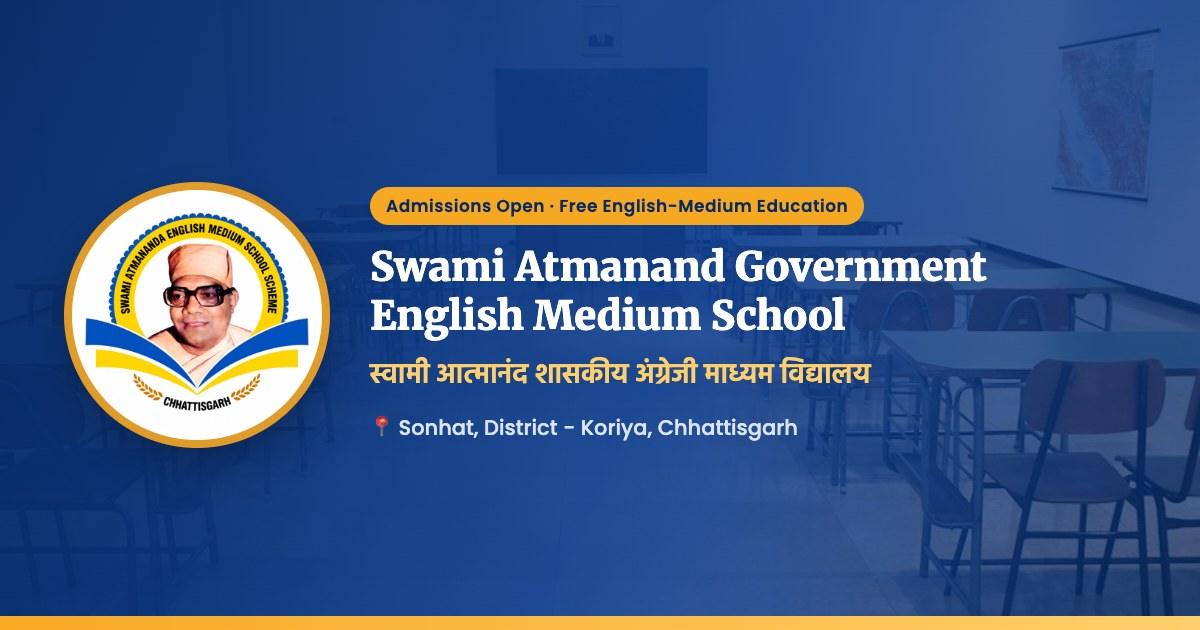
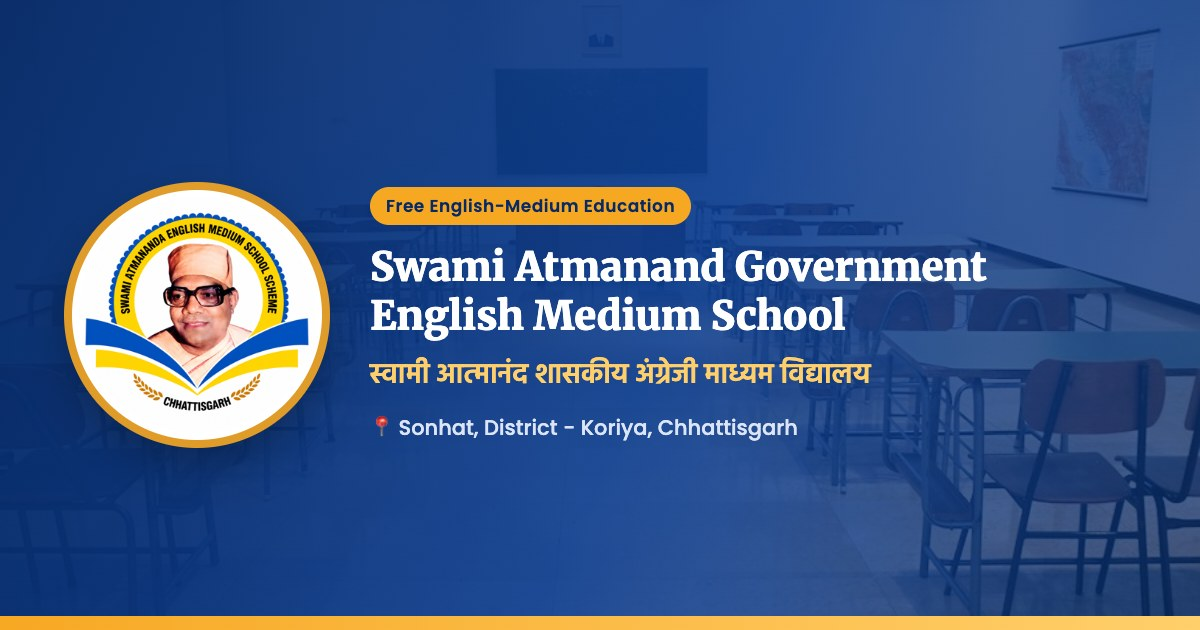
Link preview badge: 'Free English-Medium Education' only

Changed region(s): [[0.3083, 0.2714, 0.74, 0.3619]]

diff --git a/index.html b/index.html
@@ -14,14 +14,14 @@
   <meta property="og:title" content="SAGES Sonhat – Swami Atmanand Govt. English Medium School">
   <meta property="og:description" content="Free, quality English-medium education from Class 1 to 12 in Sonhat, Koriya (Chhattisgarh). Admissions, faculty, notices, events and gallery.">
   <meta property="og:url" content="https://sagessonhatkorea.vercel.app/">
-  <meta property="og:image" content="https://sagessonhatkorea.vercel.app/images/og-image.jpg?v=3">
+  <meta property="og:image" content="https://sagessonhatkorea.vercel.app/images/og-image.jpg?v=4">
   <meta property="og:image:width" content="1200">
   <meta property="og:image:height" content="630">
   <meta property="og:image:alt" content="Swami Atmanand Government English Medium School, Sonhat">
   <meta name="twitter:card" content="summary_large_image">
   <meta name="twitter:title" content="SAGES Sonhat – Swami Atmanand Govt. English Medium School">
   <meta name="twitter:description" content="Free, quality English-medium education from Class 1 to 12 in Sonhat, Koriya (Chhattisgarh). Admissions, faculty, notices, events and gallery.">
-  <meta name="twitter:image" content="https://sagessonhatkorea.vercel.app/images/og-image.jpg?v=3">
+  <meta name="twitter:image" content="https://sagessonhatkorea.vercel.app/images/og-image.jpg?v=4">
   <link rel="preconnect" href="https://fonts.googleapis.com">
   <link href="https://fonts.googleapis.com/css2?family=Merriweather:wght@700&family=Poppins:wght@400;500;600&display=swap" rel="stylesheet">
   <link rel="icon" href="/images/favicon.png">

diff --git a/pages/activities.html b/pages/activities.html
@@ -14,14 +14,14 @@
   <meta property="og:title" content="Co-curricular Activities – Swami Atmanand School, Sonhat">
   <meta property="og:description" content="Sports, cultural and technical events, plus Scout Guide and NSS activities that build confidence and character at SAGES Sonhat.">
   <meta property="og:url" content="https://sagessonhatkorea.vercel.app/pages/activities.html">
-  <meta property="og:image" content="https://sagessonhatkorea.vercel.app/images/og-image.jpg?v=3">
+  <meta property="og:image" content="https://sagessonhatkorea.vercel.app/images/og-image.jpg?v=4">
   <meta property="og:image:width" content="1200">
   <meta property="og:image:height" content="630">
   <meta property="og:image:alt" content="Swami Atmanand Government English Medium School, Sonhat">
   <meta name="twitter:card" content="summary_large_image">
   <meta name="twitter:title" content="Co-curricular Activities – Swami Atmanand School, Sonhat">
   <meta name="twitter:description" content="Sports, cultural and technical events, plus Scout Guide and NSS activities that build confidence and character at SAGES Sonhat.">
-  <meta name="twitter:image" content="https://sagessonhatkorea.vercel.app/images/og-image.jpg?v=3">
+  <meta name="twitter:image" content="https://sagessonhatkorea.vercel.app/images/og-image.jpg?v=4">
   <link href="https://fonts.googleapis.com/css2?family=Merriweather:wght@700&family=Poppins:wght@400;500;600&display=swap" rel="stylesheet">
   <link rel="icon" href="/images/favicon.png">
   <link rel="stylesheet" href="/css/style.css">

diff --git a/pages/about.html b/pages/about.html
@@ -14,14 +14,14 @@
   <meta property="og:title" content="About Us – Swami Atmanand School, Sonhat">
   <meta property="og:description" content="Our vision, mission and story – part of the Swami Atmanand Utkrisht Vidyalaya Yojana bringing free English-medium education to Sonhat, Koriya.">
   <meta property="og:url" content="https://sagessonhatkorea.vercel.app/pages/about.html">
-  <meta property="og:image" content="https://sagessonhatkorea.vercel.app/images/og-image.jpg?v=3">
+  <meta property="og:image" content="https://sagessonhatkorea.vercel.app/images/og-image.jpg?v=4">
   <meta property="og:image:width" content="1200">
   <meta property="og:image:height" content="630">
   <meta property="og:image:alt" content="Swami Atmanand Government English Medium School, Sonhat">
   <meta name="twitter:card" content="summary_large_image">
   <meta name="twitter:title" content="About Us – Swami Atmanand School, Sonhat">
   <meta name="twitter:description" content="Our vision, mission and story – part of the Swami Atmanand Utkrisht Vidyalaya Yojana bringing free English-medium education to Sonhat, Koriya.">
-  <meta name="twitter:image" content="https://sagessonhatkorea.vercel.app/images/og-image.jpg?v=3">
+  <meta name="twitter:image" content="https://sagessonhatkorea.vercel.app/images/og-image.jpg?v=4">
   <link href="https://fonts.googleapis.com/css2?family=Merriweather:wght@700&family=Poppins:wght@400;500;600&display=swap" rel="stylesheet">
   <link rel="icon" href="/images/favicon.png">
   <link rel="stylesheet" href="/css/style.css">

diff --git a/pages/infrastructure.html b/pages/infrastructure.html
@@ -14,14 +14,14 @@
   <meta property="og:title" content="Infrastructure – Swami Atmanand School, Sonhat">
   <meta property="og:description" content="Smart classrooms, science, computer, language and robotics labs, library and campus facilities at SAGES Sonhat, District Koriya.">
   <meta property="og:url" content="https://sagessonhatkorea.vercel.app/pages/infrastructure.html">
-  <meta property="og:image" content="https://sagessonhatkorea.vercel.app/images/og-image.jpg?v=3">
+  <meta property="og:image" content="https://sagessonhatkorea.vercel.app/images/og-image.jpg?v=4">
   <meta property="og:image:width" content="1200">
   <meta property="og:image:height" content="630">
   <meta property="og:image:alt" content="Swami Atmanand Government English Medium School, Sonhat">
   <meta name="twitter:card" content="summary_large_image">
   <meta name="twitter:title" content="Infrastructure – Swami Atmanand School, Sonhat">
   <meta name="twitter:description" content="Smart classrooms, science, computer, language and robotics labs, library and campus facilities at SAGES Sonhat, District Koriya.">
-  <meta name="twitter:image" content="https://sagessonhatkorea.vercel.app/images/og-image.jpg?v=3">
+  <meta name="twitter:image" content="https://sagessonhatkorea.vercel.app/images/og-image.jpg?v=4">
   <link href="https://fonts.googleapis.com/css2?family=Merriweather:wght@700&family=Poppins:wght@400;500;600&display=swap" rel="stylesheet">
   <link rel="icon" href="/images/favicon.png">
   <link rel="stylesheet" href="/css/style.css">

diff --git a/pages/gallery.html b/pages/gallery.html
@@ -14,14 +14,14 @@
   <meta property="og:title" content="Photo Gallery – Swami Atmanand School, Sonhat">
   <meta property="og:description" content="Photos of classrooms, labs, celebrations, sports and everyday school life at Swami Atmanand Govt. English Medium School, Sonhat.">
   <meta property="og:url" content="https://sagessonhatkorea.vercel.app/pages/gallery.html">
-  <meta property="og:image" content="https://sagessonhatkorea.vercel.app/images/og-image.jpg?v=3">
+  <meta property="og:image" content="https://sagessonhatkorea.vercel.app/images/og-image.jpg?v=4">
   <meta property="og:image:width" content="1200">
   <meta property="og:image:height" content="630">
   <meta property="og:image:alt" content="Swami Atmanand Government English Medium School, Sonhat">
   <meta name="twitter:card" content="summary_large_image">
   <meta name="twitter:title" content="Photo Gallery – Swami Atmanand School, Sonhat">
   <meta name="twitter:description" content="Photos of classrooms, labs, celebrations, sports and everyday school life at Swami Atmanand Govt. English Medium School, Sonhat.">
-  <meta name="twitter:image" content="https://sagessonhatkorea.vercel.app/images/og-image.jpg?v=3">
+  <meta name="twitter:image" content="https://sagessonhatkorea.vercel.app/images/og-image.jpg?v=4">
   <link href="https://fonts.googleapis.com/css2?family=Merriweather:wght@700&family=Poppins:wght@400;500;600&display=swap" rel="stylesheet">
   <link rel="icon" href="/images/favicon.png">
   <link rel="stylesheet" href="/css/style.css">

diff --git a/pages/contact.html b/pages/contact.html
@@ -14,14 +14,14 @@
   <meta property="og:title" content="Contact Us – Swami Atmanand School, Sonhat">
   <meta property="og:description" content="Address, phone, email, office hours and map for Swami Atmanand Govt. English Medium School, Sonhat, District Koriya, Chhattisgarh.">
   <meta property="og:url" content="https://sagessonhatkorea.vercel.app/pages/contact.html">
-  <meta property="og:image" content="https://sagessonhatkorea.vercel.app/images/og-image.jpg?v=3">
+  <meta property="og:image" content="https://sagessonhatkorea.vercel.app/images/og-image.jpg?v=4">
   <meta property="og:image:width" content="1200">
   <meta property="og:image:height" content="630">
   <meta property="og:image:alt" content="Swami Atmanand Government English Medium School, Sonhat">
   <meta name="twitter:card" content="summary_large_image">
   <meta name="twitter:title" content="Contact Us – Swami Atmanand School, Sonhat">
   <meta name="twitter:description" content="Address, phone, email, office hours and map for Swami Atmanand Govt. English Medium School, Sonhat, District Koriya, Chhattisgarh.">
-  <meta name="twitter:image" content="https://sagessonhatkorea.vercel.app/images/og-image.jpg?v=3">
+  <meta name="twitter:image" content="https://sagessonhatkorea.vercel.app/images/og-image.jpg?v=4">
   <link href="https://fonts.googleapis.com/css2?family=Merriweather:wght@700&family=Poppins:wght@400;500;600&display=swap" rel="stylesheet">
   <link rel="icon" href="/images/favicon.png">
   <link rel="stylesheet" href="/css/style.css">

diff --git a/pages/administration.html b/pages/administration.html
@@ -14,14 +14,14 @@
   <meta property="og:title" content="Administration – Swami Atmanand School, Sonhat">
   <meta property="og:description" content="Meet the Principal, School Management Committee, faculty and staff of Swami Atmanand Govt. English Medium School, Sonhat.">
   <meta property="og:url" content="https://sagessonhatkorea.vercel.app/pages/administration.html">
-  <meta property="og:image" content="https://sagessonhatkorea.vercel.app/images/og-image.jpg?v=3">
+  <meta property="og:image" content="https://sagessonhatkorea.vercel.app/images/og-image.jpg?v=4">
   <meta property="og:image:width" content="1200">
   <meta property="og:image:height" content="630">
   <meta property="og:image:alt" content="Swami Atmanand Government English Medium School, Sonhat">
   <meta name="twitter:card" content="summary_large_image">
   <meta name="twitter:title" content="Administration – Swami Atmanand School, Sonhat">
   <meta name="twitter:description" content="Meet the Principal, School Management Committee, faculty and staff of Swami Atmanand Govt. English Medium School, Sonhat.">
-  <meta name="twitter:image" content="https://sagessonhatkorea.vercel.app/images/og-image.jpg?v=3">
+  <meta name="twitter:image" content="https://sagessonhatkorea.vercel.app/images/og-image.jpg?v=4">
   <link href="https://fonts.googleapis.com/css2?family=Merriweather:wght@700&family=Poppins:wght@400;500;600&display=swap" rel="stylesheet">
   <link rel="icon" href="/images/favicon.png">
   <link rel="stylesheet" href="/css/style.css">

diff --git a/pages/news.html b/pages/news.html
@@ -14,14 +14,14 @@
   <meta property="og:title" content="News &amp; Events – Swami Atmanand School, Sonhat">
   <meta property="og:description" content="Latest notices, school news and upcoming events from Swami Atmanand Govt. English Medium School, Sonhat, District Koriya.">
   <meta property="og:url" content="https://sagessonhatkorea.vercel.app/pages/news.html">
-  <meta property="og:image" content="https://sagessonhatkorea.vercel.app/images/og-image.jpg?v=3">
+  <meta property="og:image" content="https://sagessonhatkorea.vercel.app/images/og-image.jpg?v=4">
   <meta property="og:image:width" content="1200">
   <meta property="og:image:height" content="630">
   <meta property="og:image:alt" content="Swami Atmanand Government English Medium School, Sonhat">
   <meta name="twitter:card" content="summary_large_image">
   <meta name="twitter:title" content="News &amp; Events – Swami Atmanand School, Sonhat">
   <meta name="twitter:description" content="Latest notices, school news and upcoming events from Swami Atmanand Govt. English Medium School, Sonhat, District Koriya.">
-  <meta name="twitter:image" content="https://sagessonhatkorea.vercel.app/images/og-image.jpg?v=3">
+  <meta name="twitter:image" content="https://sagessonhatkorea.vercel.app/images/og-image.jpg?v=4">
   <link href="https://fonts.googleapis.com/css2?family=Merriweather:wght@700&family=Poppins:wght@400;500;600&display=swap" rel="stylesheet">
   <link rel="icon" href="/images/favicon.png">
   <link rel="stylesheet" href="/css/style.css">

diff --git a/pages/academic.html b/pages/academic.html
@@ -14,14 +14,14 @@
   <meta property="og:title" content="Academic – Swami Atmanand School, Sonhat">
   <meta property="og:description" content="Classes and curriculum from Class 1 to 12, board results, student achievements and the school calendar at SAGES Sonhat, Koriya.">
   <meta property="og:url" content="https://sagessonhatkorea.vercel.app/pages/academic.html">
-  <meta property="og:image" content="https://sagessonhatkorea.vercel.app/images/og-image.jpg?v=3">
+  <meta property="og:image" content="https://sagessonhatkorea.vercel.app/images/og-image.jpg?v=4">
   <meta property="og:image:width" content="1200">
   <meta property="og:image:height" content="630">
   <meta property="og:image:alt" content="Swami Atmanand Government English Medium School, Sonhat">
   <meta name="twitter:card" content="summary_large_image">
   <meta name="twitter:title" content="Academic – Swami Atmanand School, Sonhat">
   <meta name="twitter:description" content="Classes and curriculum from Class 1 to 12, board results, student achievements and the school calendar at SAGES Sonhat, Koriya.">
-  <meta name="twitter:image" content="https://sagessonhatkorea.vercel.app/images/og-image.jpg?v=3">
+  <meta name="twitter:image" content="https://sagessonhatkorea.vercel.app/images/og-image.jpg?v=4">
   <link href="https://fonts.googleapis.com/css2?family=Merriweather:wght@700&family=Poppins:wght@400;500;600&display=swap" rel="stylesheet">
   <link rel="icon" href="/images/favicon.png">
   <link rel="stylesheet" href="/css/style.css">

diff --git a/pages/admission.html b/pages/admission.html
@@ -14,14 +14,14 @@
   <meta property="og:title" content="Admission – Swami Atmanand School, Sonhat">
   <meta property="og:description" content="Admission process, eligibility and documents for SAGES Sonhat. Download the admission form and send a registration enquiry.">
   <meta property="og:url" content="https://sagessonhatkorea.vercel.app/pages/admission.html">
-  <meta property="og:image" content="https://sagessonhatkorea.vercel.app/images/og-image.jpg?v=3">
+  <meta property="og:image" content="https://sagessonhatkorea.vercel.app/images/og-image.jpg?v=4">
   <meta property="og:image:width" content="1200">
   <meta property="og:image:height" content="630">
   <meta property="og:image:alt" content="Swami Atmanand Government English Medium School, Sonhat">
   <meta name="twitter:card" content="summary_large_image">
   <meta name="twitter:title" content="Admission – Swami Atmanand School, Sonhat">
   <meta name="twitter:description" content="Admission process, eligibility and documents for SAGES Sonhat. Download the admission form and send a registration enquiry.">
-  <meta name="twitter:image" content="https://sagessonhatkorea.vercel.app/images/og-image.jpg?v=3">
+  <meta name="twitter:image" content="https://sagessonhatkorea.vercel.app/images/og-image.jpg?v=4">
   <link href="https://fonts.googleapis.com/css2?family=Merriweather:wght@700&family=Poppins:wght@400;500;600&display=swap" rel="stylesheet">
   <link rel="icon" href="/images/favicon.png">
   <link rel="stylesheet" href="/css/style.css">
